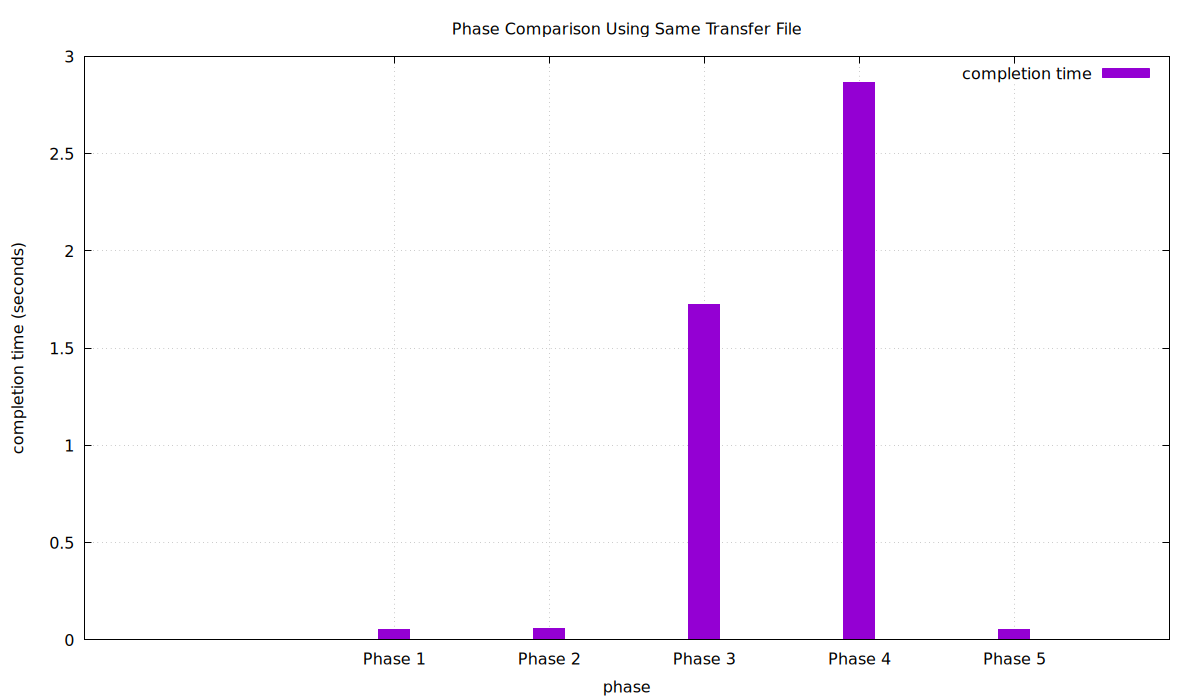
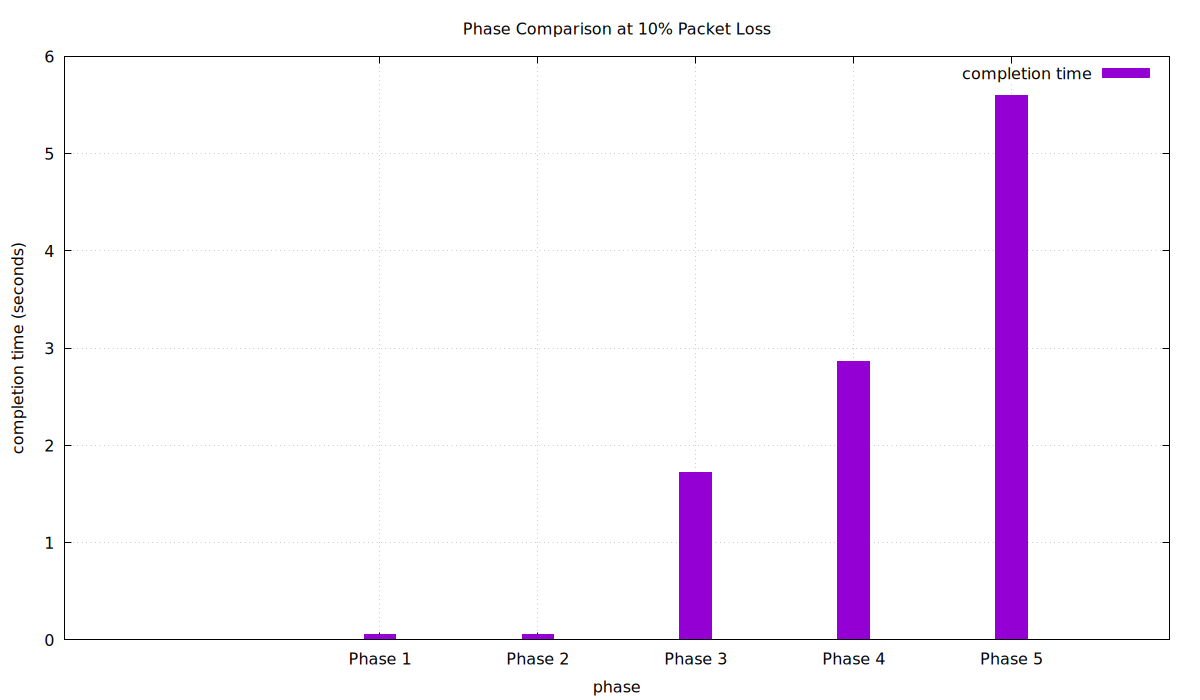
fix phase 5 graphs

diff --git a/scripts/phase5_plots.py b/scripts/phase5_plots.py
@@ -175,7 +175,7 @@ plot "{cwnd_csv.as_posix()}" using 0:5 with linespoints title "cwnd"
     return gp_path
 
 
-def write_phase_comparison(results_dir: Path, phase5_avg_0: float) -> Path:
+def write_phase_comparison(results_dir: Path, phase5_avg_10: float) -> Path:
     csv_path = results_dir / "phase5_phase_comparison.csv"
 
     rows = [
@@ -183,7 +183,7 @@ def write_phase_comparison(results_dir: Path, phase5_avg_0: float) -> Path:
         {"phase": "Phase 2", "seconds": "0.059"},
         {"phase": "Phase 3", "seconds": "1.725"},
         {"phase": "Phase 4", "seconds": "2.866"},
-        {"phase": "Phase 5", "seconds": f"{phase5_avg_0:.6f}"},
+        {"phase": "Phase 5", "seconds": f"{phase5_avg_10:.6f}"},
     ]
 
     write_csv(csv_path, rows, ["phase", "seconds"])
@@ -195,7 +195,7 @@ def write_phase_comparison_gnuplot(results_dir: Path, comparison_csv: Path, plot
     gp = f"""\
 set terminal pngcairo size 1200,700
 set output "{plot_png.as_posix()}"
-set title "Phase Comparison Using Same Transfer File"
+set title "Phase Comparison at 10% Packet Loss"
 set xlabel "phase"
 set ylabel "completion time (seconds)"
 set grid
@@ -226,8 +226,6 @@ def main():
     ap.add_argument("--plot", action="store_true")
     args = ap.parse_args()
 
-    if args.runs < 5:
-        raise SystemExit("Rubric requires at least 5 runs per rate. Use --runs 5 or more.")
     if args.max_attempts < args.runs:
         raise SystemExit("--max-attempts must be >= --runs")
 
@@ -243,7 +241,7 @@ def main():
     raw_rows: List[dict] = []
     avg_rows: List[dict] = []
 
-    phase5_avg_0 = None
+    phase5_avg_10 = None
 
     for rate in RATES:
         ok_times: List[float] = []
@@ -284,21 +282,30 @@ def main():
 
             attempt += 1
 
-        if ok_times:
-            avg = mean(ok_times)
-            print(f"phase5 rate={rate:>2}% done ok={len(ok_times)}/{args.runs} attempts={attempt} avg={avg:.3f}s", flush=True)
-        else:
-            avg = None
-            print(f"phase5 rate={rate:>2}% done ok=0/{args.runs} attempts={attempt} avg=NA", flush=True)
+        avg = mean(ok_times) if ok_times else None
 
-        if ok_count < args.runs:
+        if avg is not None:
             print(
-                f"WARNING: phase5 rate={rate}% only got {ok_count}/{args.runs} OK runs after {attempt} attempts.",
+                f"phase5 rate={rate:>2}% done ok={len(ok_times)}/{args.runs} "
+                f"attempts={attempt} avg={avg:.3f}s",
+                flush=True,
+            )
+        else:
+            print(
+                f"phase5 rate={rate:>2}% done ok=0/{args.runs} "
+                f"attempts={attempt} avg=NA",
                 flush=True,
             )
 
-        if rate == 0 and avg is not None:
-            phase5_avg_0 = avg
+        if ok_count < args.runs:
+            print(
+                f"WARNING: phase5 rate={rate}% only got {ok_count}/{args.runs} OK runs "
+                f"after {attempt} attempts.",
+                flush=True,
+            )
+
+        if rate == 10 and avg is not None:
+            phase5_avg_10 = avg
 
         avg_rows.append(
             {
@@ -316,9 +323,12 @@ def main():
 
     comparison_csv = None
     gp_comparison = None
-    if phase5_avg_0 is not None:
-        comparison_csv = write_phase_comparison(results_dir, phase5_avg_0)
+
+    if phase5_avg_10 is not None:
+        comparison_csv = write_phase_comparison(results_dir, phase5_avg_10)
         gp_comparison = write_phase_comparison_gnuplot(results_dir, comparison_csv, comparison_png)
+    else:
+        print("WARNING: No 10% Phase 5 average found, so phase comparison was not generated.", flush=True)
 
     if args.plot:
         if gnuplot_available():